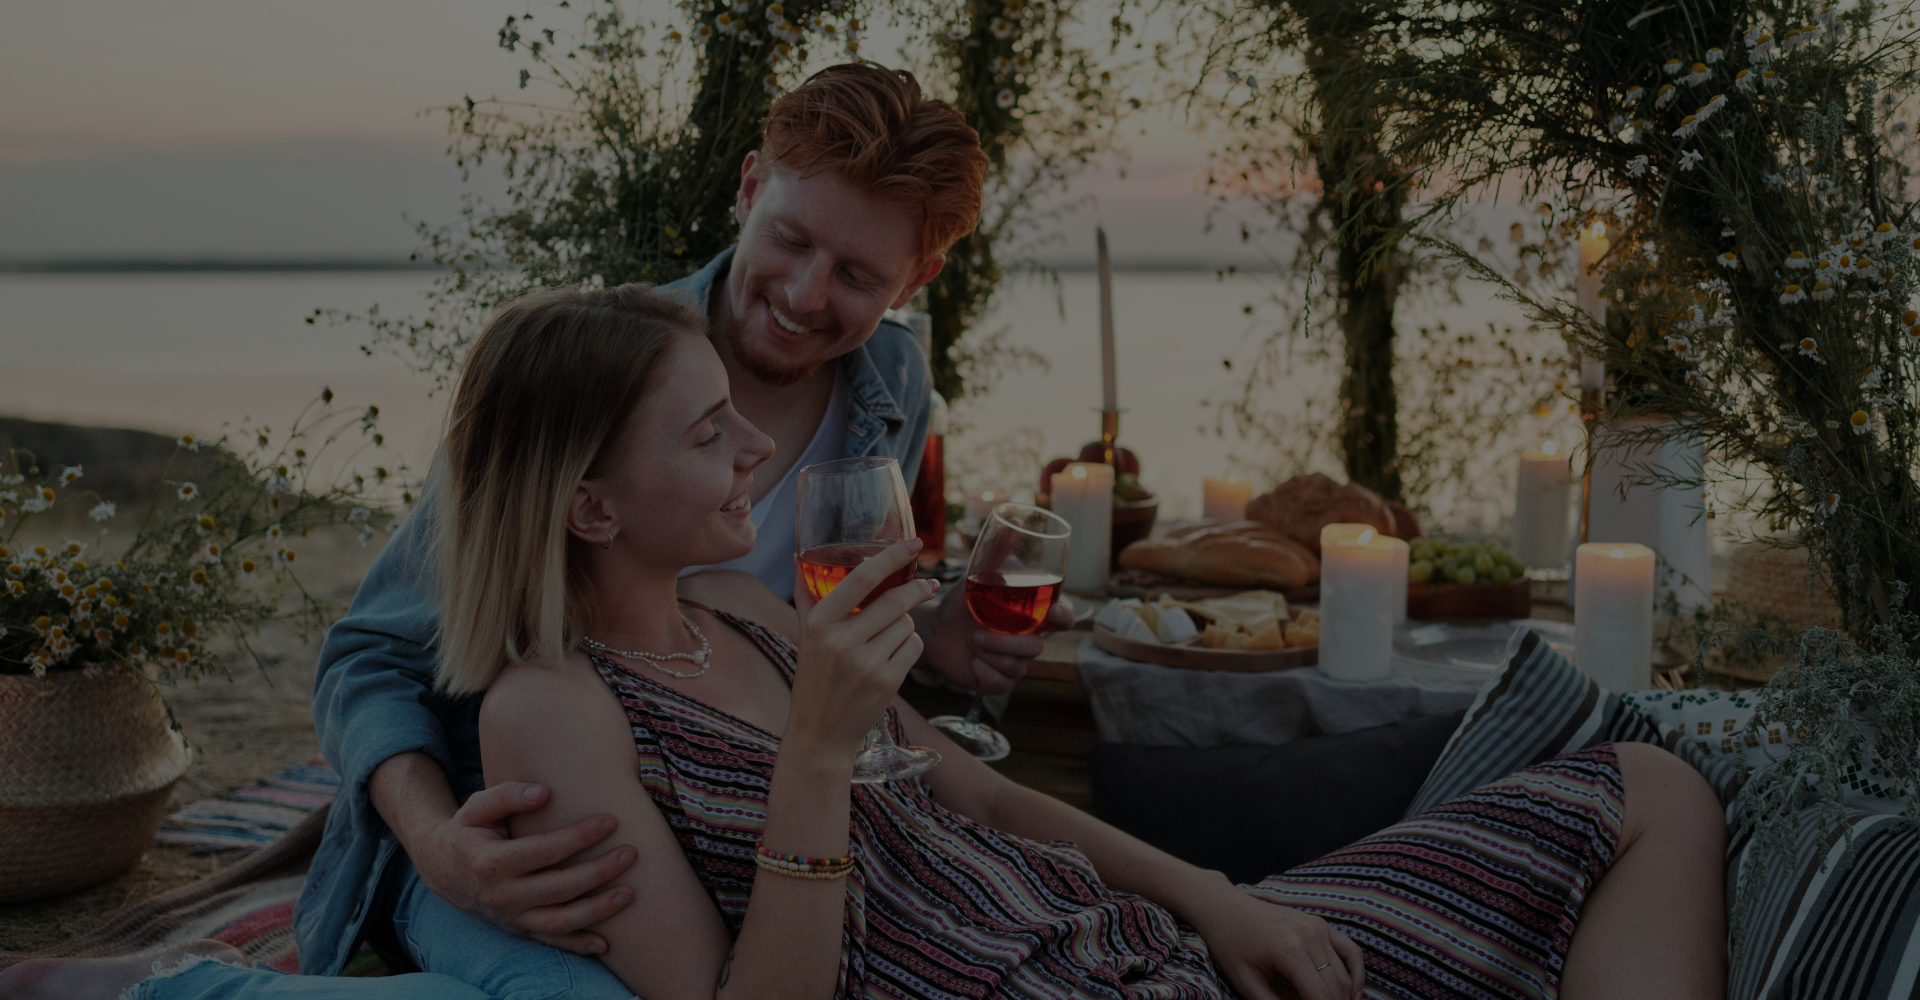
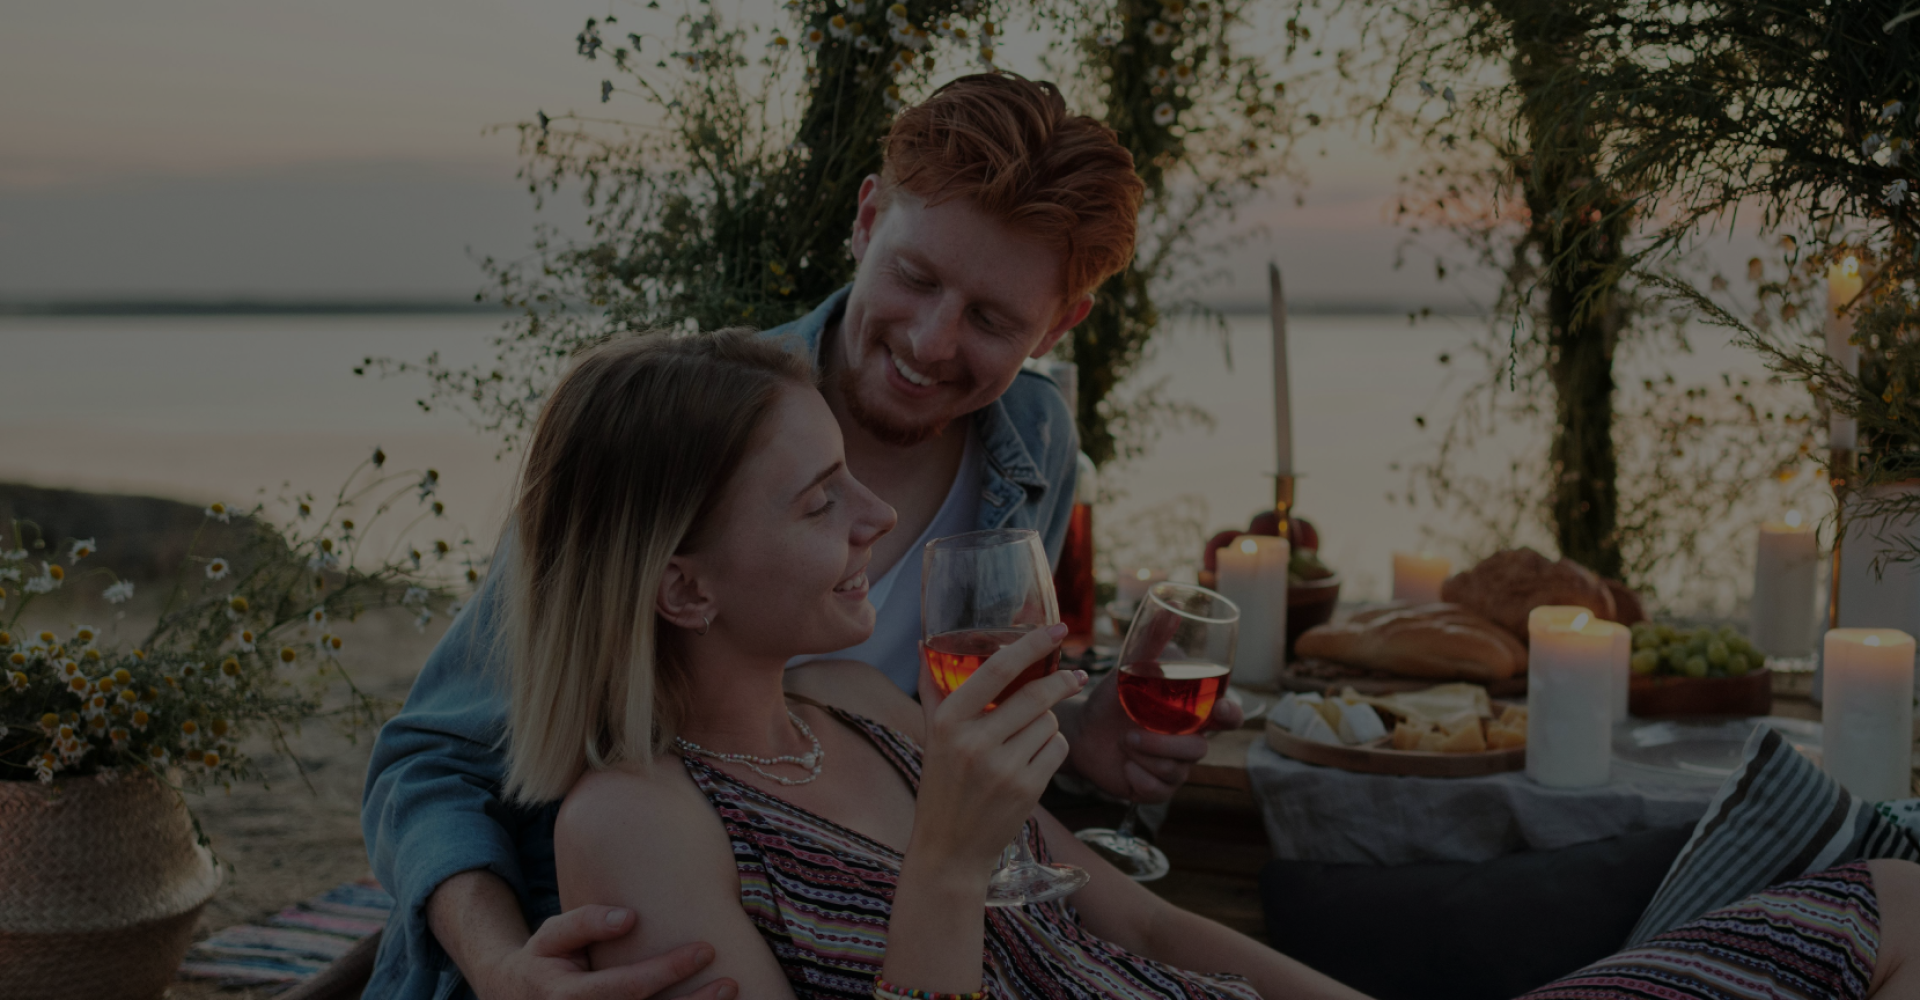
css 추가수정(메인페이지 배너 등)

diff --git a/static/css/common.css b/static/css/common.css
@@ -77,6 +77,10 @@ input[type='checkbox'] + label:hover {
     display: flex;
     justify-content: center;
     align-items: center;
+    background-size: cover;
+    background-position: center;
+    background-repeat: no-repeat;
+    background-attachment: fixed;
 }
 .content_bottom {
     height: 320px;
@@ -99,8 +103,8 @@ input[type='checkbox'] + label:hover {
     line-height: 46px;
 }
 .content_banner_top {
-    width: 360px;
-    height: 300px;
+    /* width: 360px; */
+    height: 200px;
     margin: 0 auto;
     display: flex;
     justify-content: center;
@@ -666,8 +670,8 @@ header .menu_item {
     }
     .content_no_img.login_main {
         /* padding: 20px 100px; */
-            max-width: 400px;
-            overflow: auto;
+        max-width: 400px;
+        overflow: auto;
         padding: 20px 20px;
     }
     .content_chat_img {
@@ -700,7 +704,7 @@ header .menu_item {
         right: 10px;
     } */
     .content_banner_top {
-        width: 100%
+        width: 100%;
     }
     .content_banner_top img {
         width: 95%;
@@ -732,7 +736,7 @@ header .menu_item {
 
     .content_banner_top {
         /* width: 100%; */
-        height: 300px;
+        height: 200px;
     }
     .content_banner_top img {
         /* width: 95%; */
@@ -865,7 +869,7 @@ header .menu_item {
         position: absolute;
         right: 10px;
     } */
-    
+
     .content_no_img.login_main {
         /* width: 968px; */
         width: 320px;
